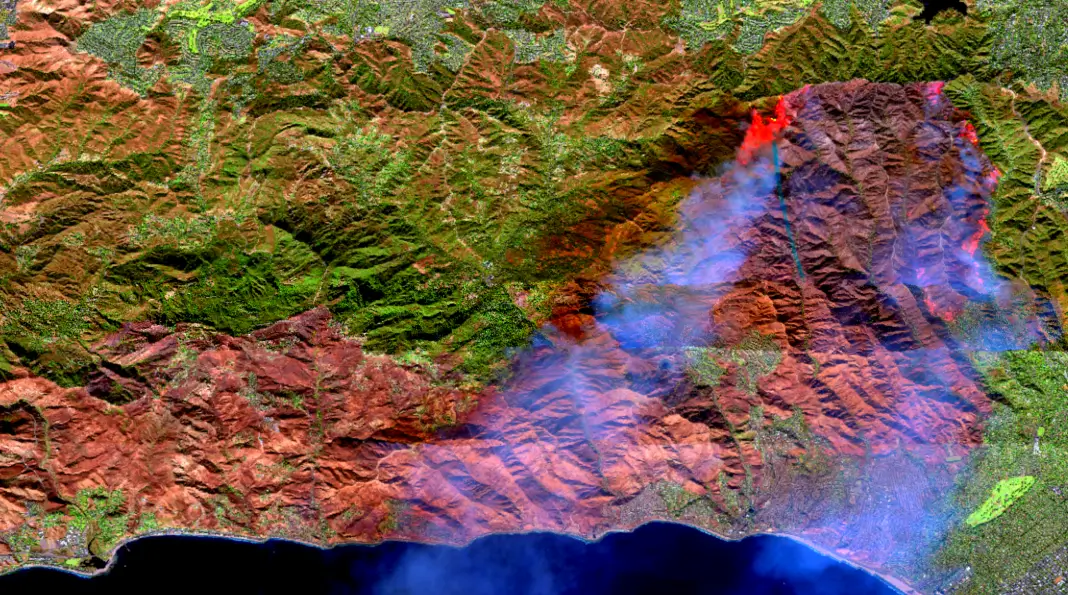
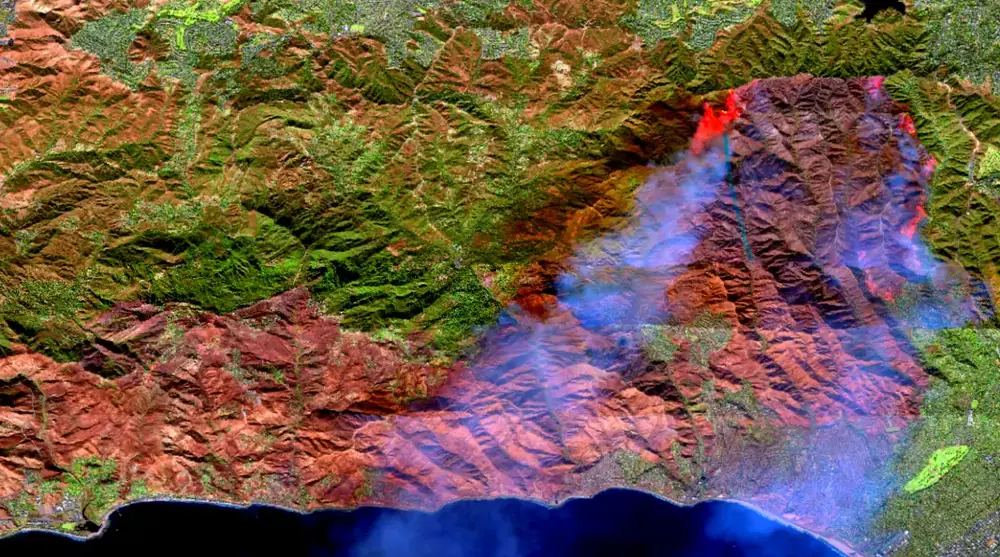
feat(data-gallery): add content to the AVIRIS-3 Early Look page
The page config existed on develop but had no body and was not
registered, so it was not reachable and would have rendered the
"Under Development" placeholder ("Page not available" in review).
Register it and add the standard six sections, a theme, a hazard, and
a related link.

Sourced from existing content:
- Summary: the page's own description, plus the band wavelengths from
  the aviris3-rgb-subdaily STAC collection description.
- Satellite/Sensor, Resolution, Credits: the approved AVIRIS-3 dNBR page
  (same instrument).

Draft for review: Suggested Use and Tags.

Shrink the existing image in place, 157 KB -> 133 KB (1068x595 ->
1000x557, quality 75). No new image file is added; this page is its
only user.

diff --git a/app/site-config/data/data__aviris-3-early-color-imagery.ts b/app/site-config/data/data__aviris-3-early-color-imagery.ts
@@ -14,6 +14,54 @@ export const DATA__AVIRIS_3_EARLY_COLOR_IMAGERY: DataContent = {
     src: "/img/data/aviris-3-early-color-imagery.webp",
     alt: "AVIRIS-3 Early Look False Color imagery example",
   },
-  themes: [],
-  categories: [],
+  themes: ["respond"],
+  categories: ["fire"],
+  relatedContent: ["aviris-3-dnbr"],
+  body: [
+    {
+      type: "text",
+      heading: "Summary",
+      headingLevel: "h3",
+      paragraphs: [
+        "The AVIRIS-3 false color early look imagery provides at-sensor radiance data from high resolution, hyperspectral sensor which can provide a snapshot of burned areas, ash distribution and smoke emissions.",
+        "The AVIRIS-3 False color RGB wavelengths are 1660nm, 850nm, and 560nm for (R, G, B) respectively.",
+      ],
+    },
+    {
+      type: "text",
+      heading: "Suggested Use",
+      headingLevel: "h3",
+      paragraphs: [
+        "The early look false color imagery can be used for a rapid visual assessment of wildfire impacts, including burned areas, ash distribution, and smoke emissions. Because it shows at-sensor radiance rather than surface reflectance, it is best suited to visual interpretation rather than quantitative analysis.",
+      ],
+    },
+    {
+      type: "text",
+      heading: "Satellite/Sensor",
+      headingLevel: "h3",
+      paragraphs: ["Airborne Visible/Infrared Imaging Spectrometer 3rd-Generation (AVIRIS-3)"],
+    },
+    {
+      type: "text",
+      heading: "Resolution",
+      headingLevel: "h3",
+      paragraphs: ["Variable, ranging from sub-meter to 13 meters, dependent on flight altitude."],
+    },
+    {
+      type: "text",
+      heading: "Credits",
+      headingLevel: "h3",
+      paragraphs: [
+        "NASA Jet Propulsion Laboratory (JPL), AVIRIS Science Team, NASA Disasters Program",
+      ],
+    },
+    {
+      type: "text",
+      heading: "Tags",
+      headingLevel: "h3",
+      paragraphs: [
+        "NASA, JPL, AVIRIS-3, AVIRIS, Imaging Spectroscopy, Hyperspectral, False Color, Early Look, Wildfire",
+      ],
+    },
+  ],
 };

diff --git a/app/site-config/data/index.ts b/app/site-config/data/index.ts
@@ -1,5 +1,6 @@
 import type { DataContent } from "@/app/site-config/types";
 import { DATA__AVIRIS_3_DNBR } from "./data__aviris-3-dnbr";
+import { DATA__AVIRIS_3_EARLY_COLOR_IMAGERY } from "./data__aviris-3-early-color-imagery";
 import { DATA__BLACK_MARBLE_BLUE_YELLOW } from "./data__black-marble-blue-yellow";
 import { DATA__BLACK_MARBLE_BRDF } from "./data__black-marble-brdf";
 import { DATA__BLACK_MARBLE_HD } from "./data__black-marble-hd";
@@ -29,4 +30,5 @@ export const DATA: DataContent[] = [
   DATA__UMBRA_SIGMA_NAUGHT,
   DATA__OPERA_DIST_S1,
   DATA__AVIRIS_3_DNBR,
+  DATA__AVIRIS_3_EARLY_COLOR_IMAGERY,
 ];
